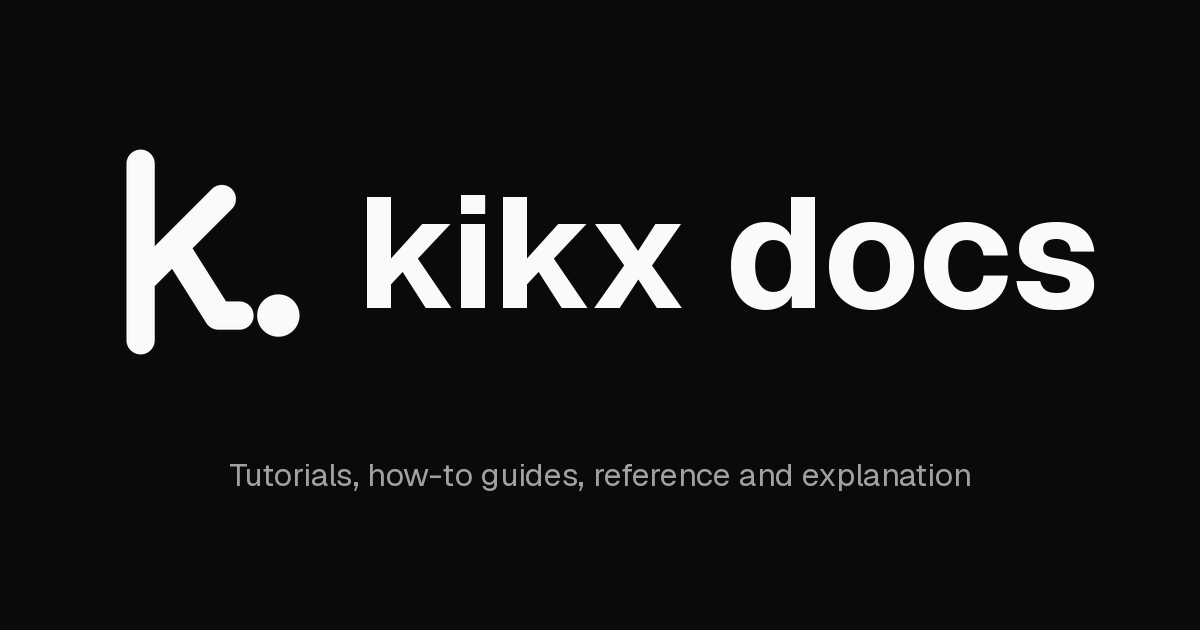
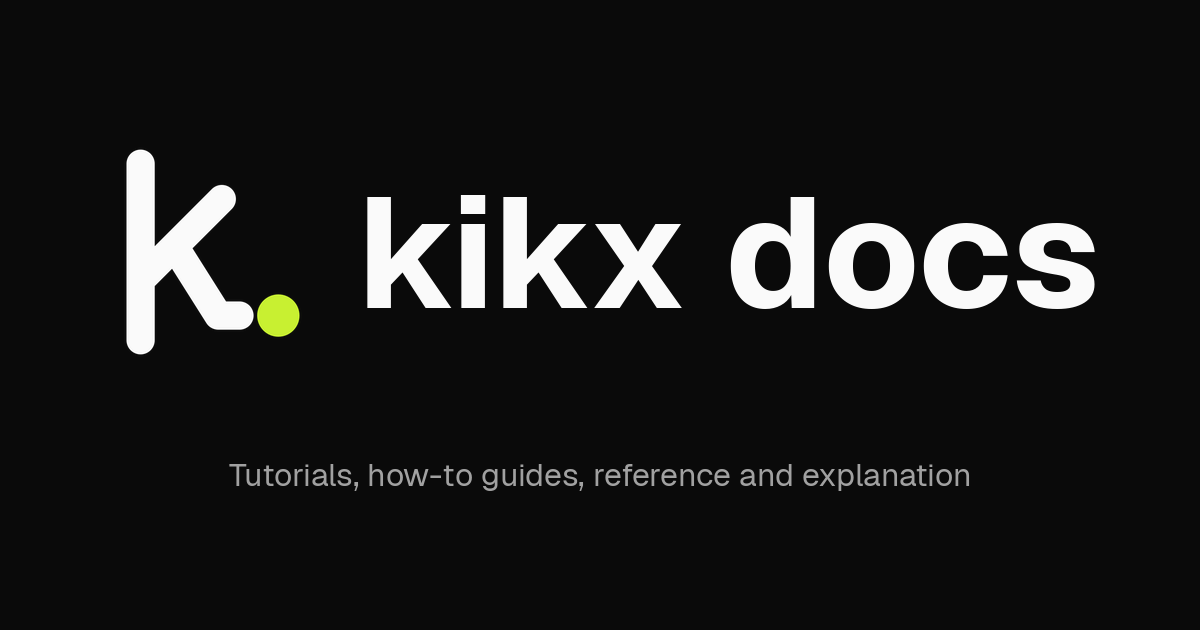
feat(brand): kick the ball in Volt on dark surfaces
Adds the kicked mark (Paper strokes, Volt ball), gives the app icon and the
dark favicon a Volt ball, regenerates the PNG, ICO and social cards, and
copies them into the dashboard, docs and CLI.

diff --git a/README.md b/README.md
@@ -1,7 +1,7 @@
 <div align="center">
 
 <picture>
-  <source media="(prefers-color-scheme: dark)" srcset="brand/images/svg/kikx-mark-white.svg">
+  <source media="(prefers-color-scheme: dark)" srcset="brand/images/svg/kikx-mark-kicked.svg">
   <img alt="kikx" src="brand/images/svg/kikx-mark.svg" width="96">
 </picture>
 
